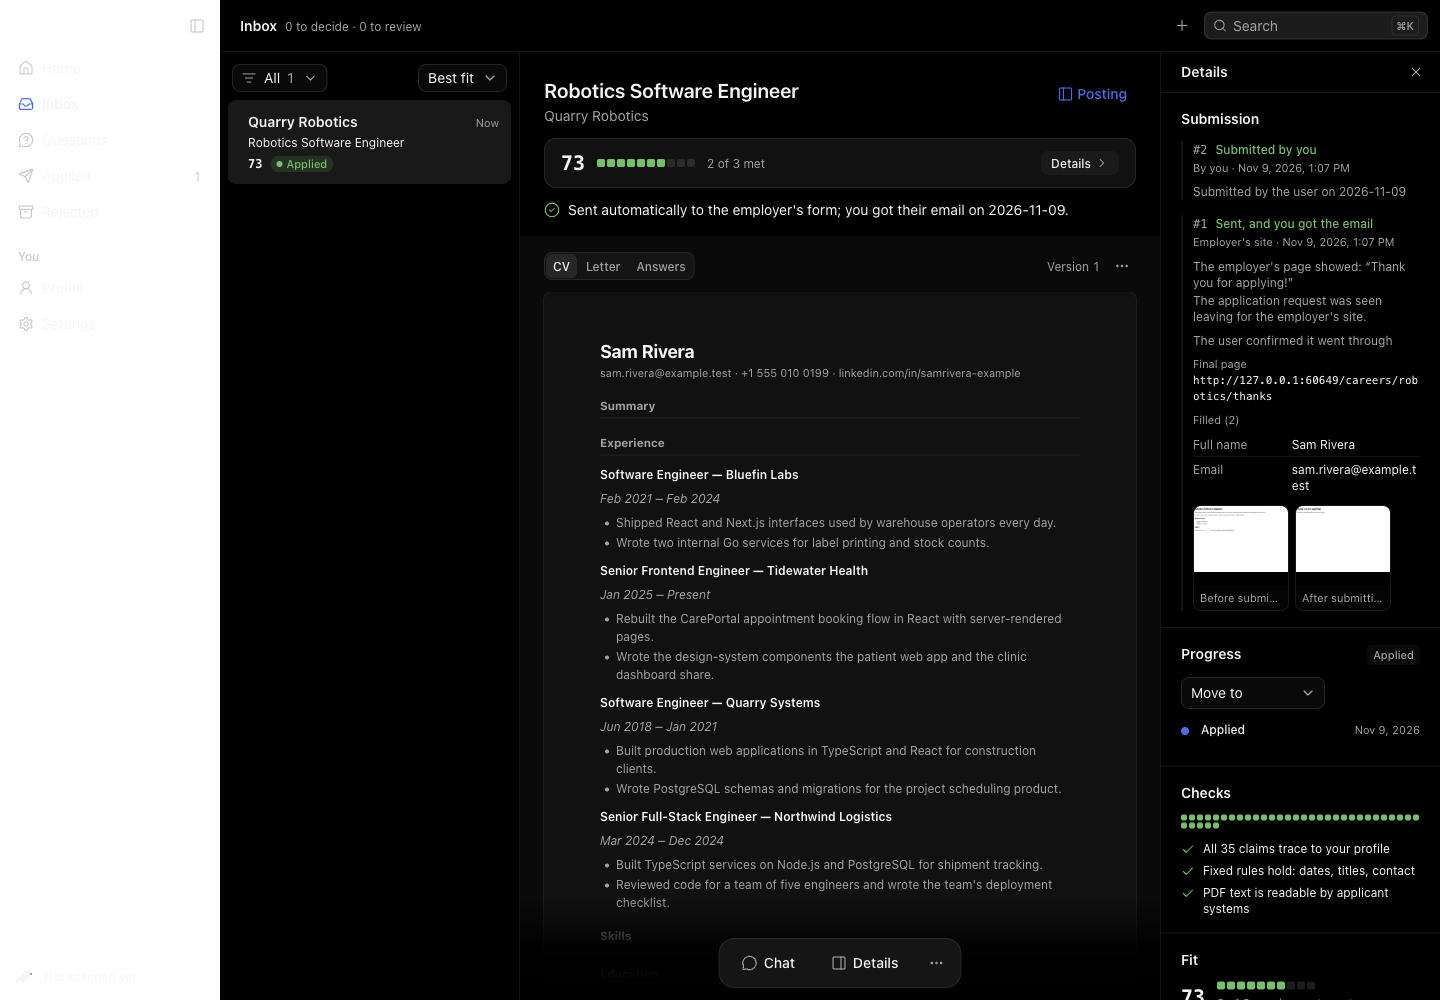
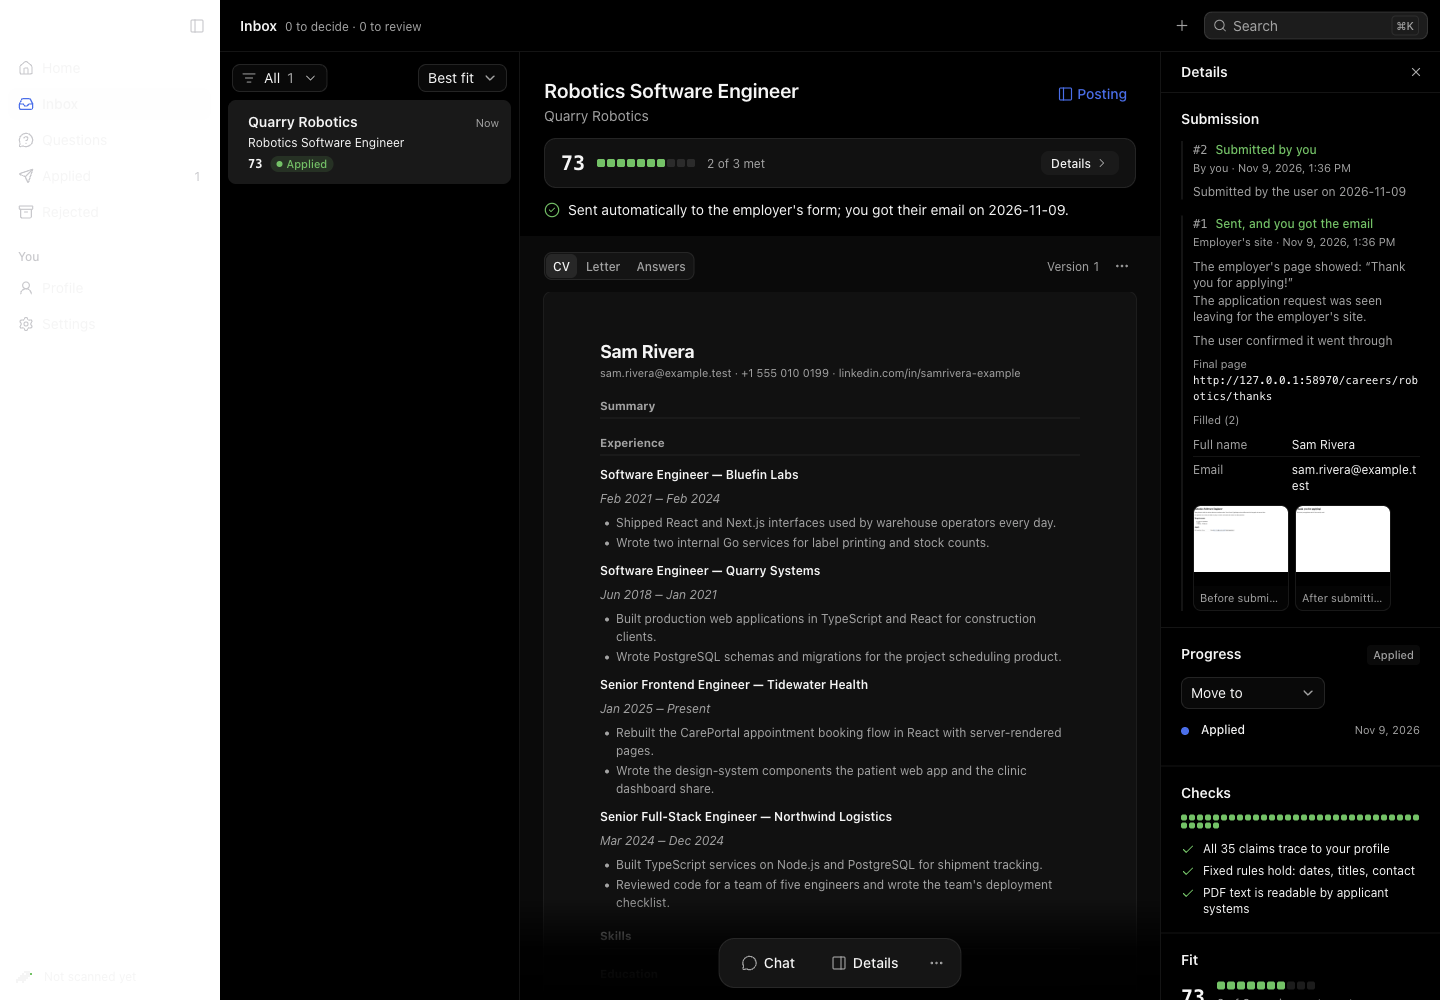
test(desktop): a sent employer's form offers no hand steps until It didn't go through

diff --git a/apps/desktop/e2e/web-sent.spec.ts b/apps/desktop/e2e/web-sent.spec.ts
@@ -211,6 +211,12 @@ test("an employer's form is sent, check your email; Got the email moves it to Ap
 			"The employer's page showed",
 		);
 		await expect(attempt.getByTestId("proof-field").first()).toBeVisible();
+		// Finishing it by hand waits for It didn't go through: no steps, no I submitted this.
+		await expect(inspector.getByTestId("sent-check-email")).toBeVisible();
+		await expect(inspector.getByTestId("got-email")).toBeEnabled();
+		await expect(inspector.getByTestId("handoff")).toHaveCount(0);
+		await expect(inspector.getByTestId("mark-submitted")).toHaveCount(0);
+		await expect(inspector.getByTestId("retry")).toHaveCount(0);
 
 		await page.getByTestId("stop-sheet-open").click();
 		const sheet = page.getByTestId("stop-sheet");
